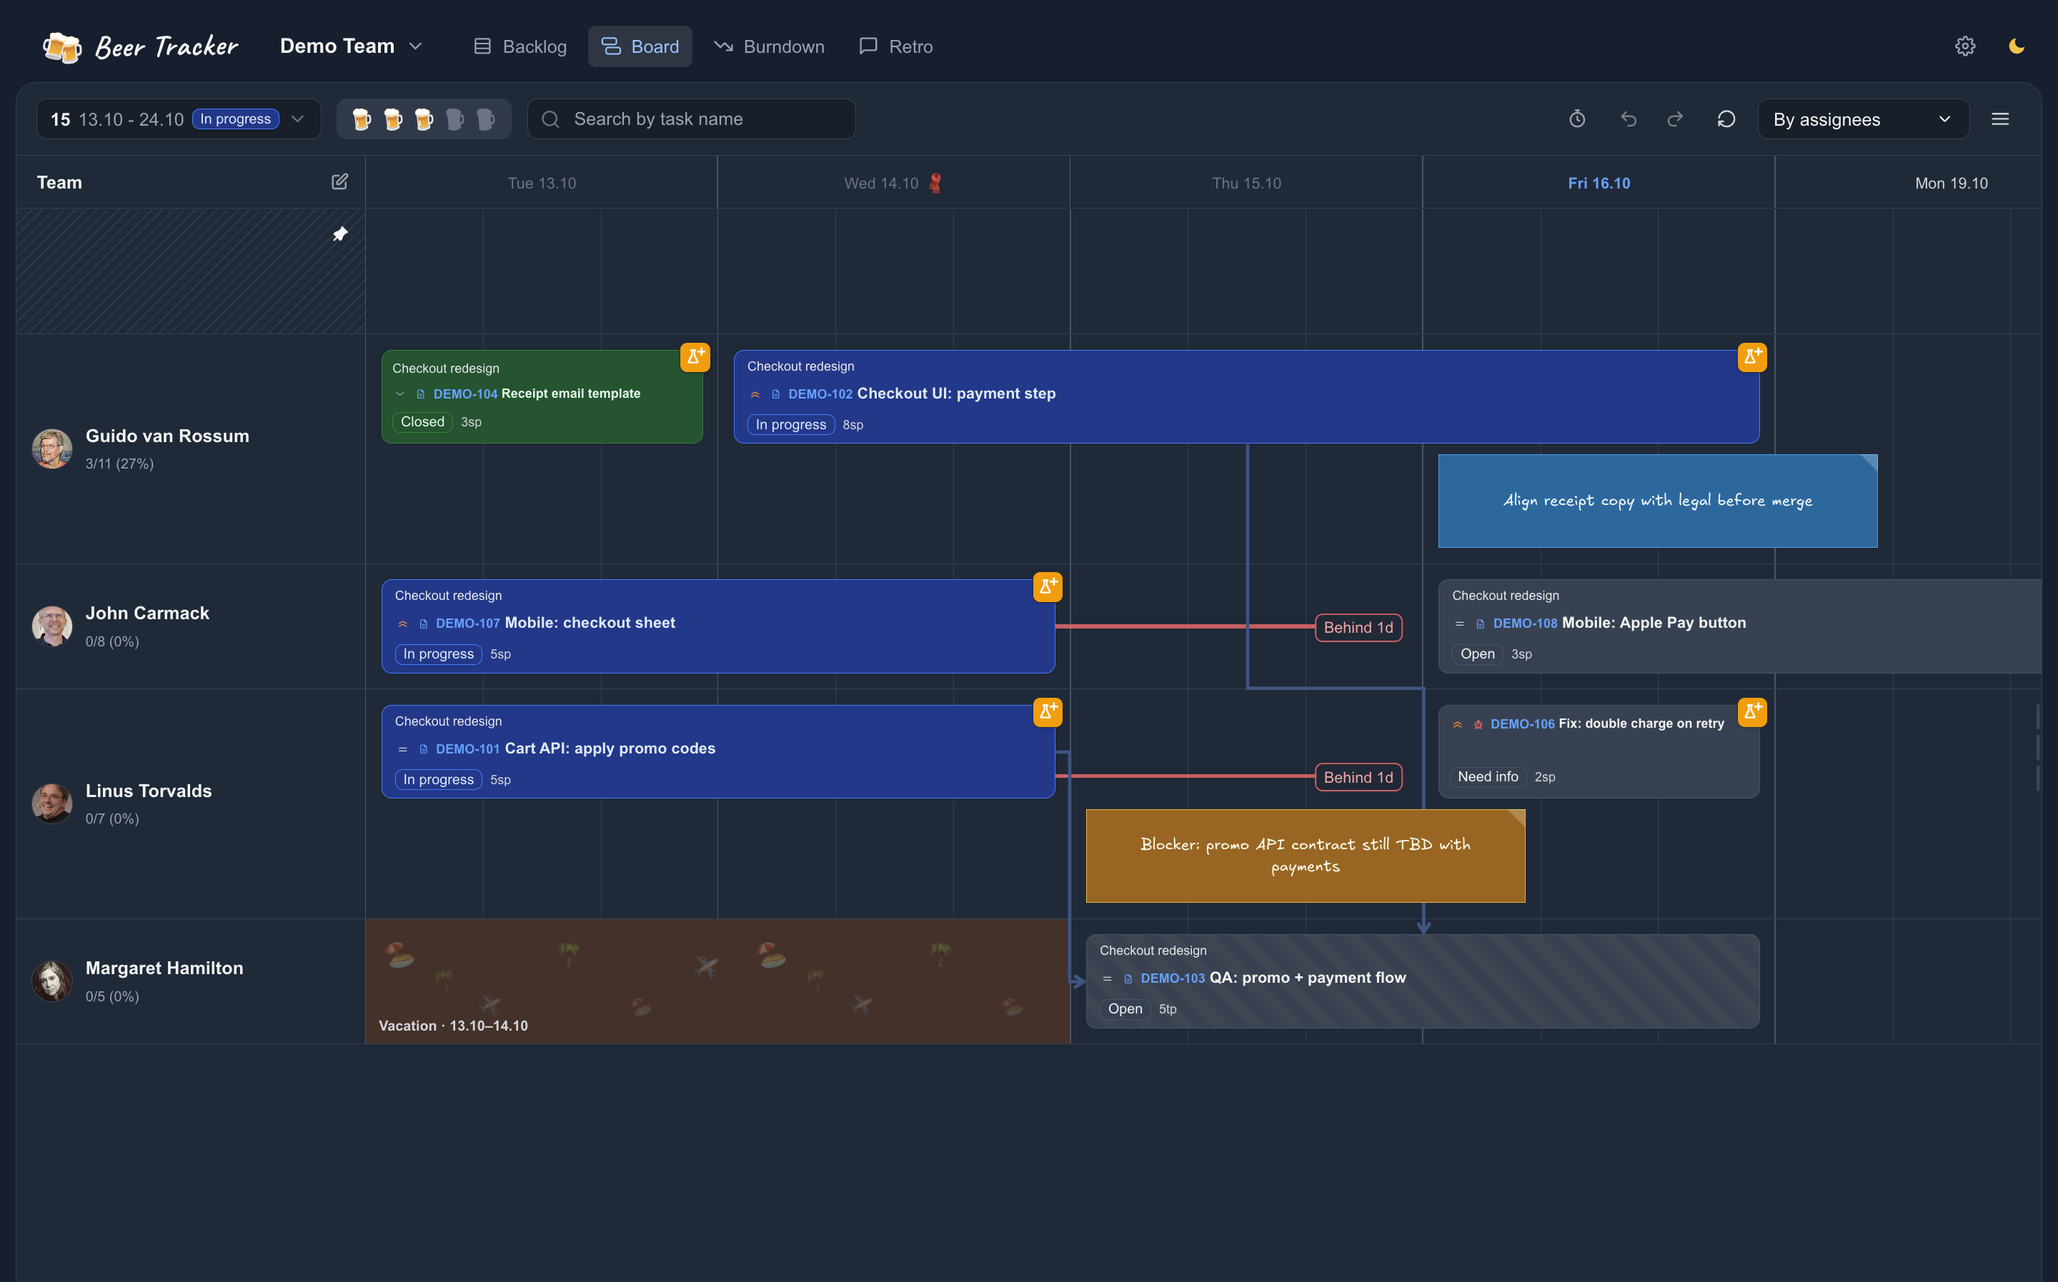
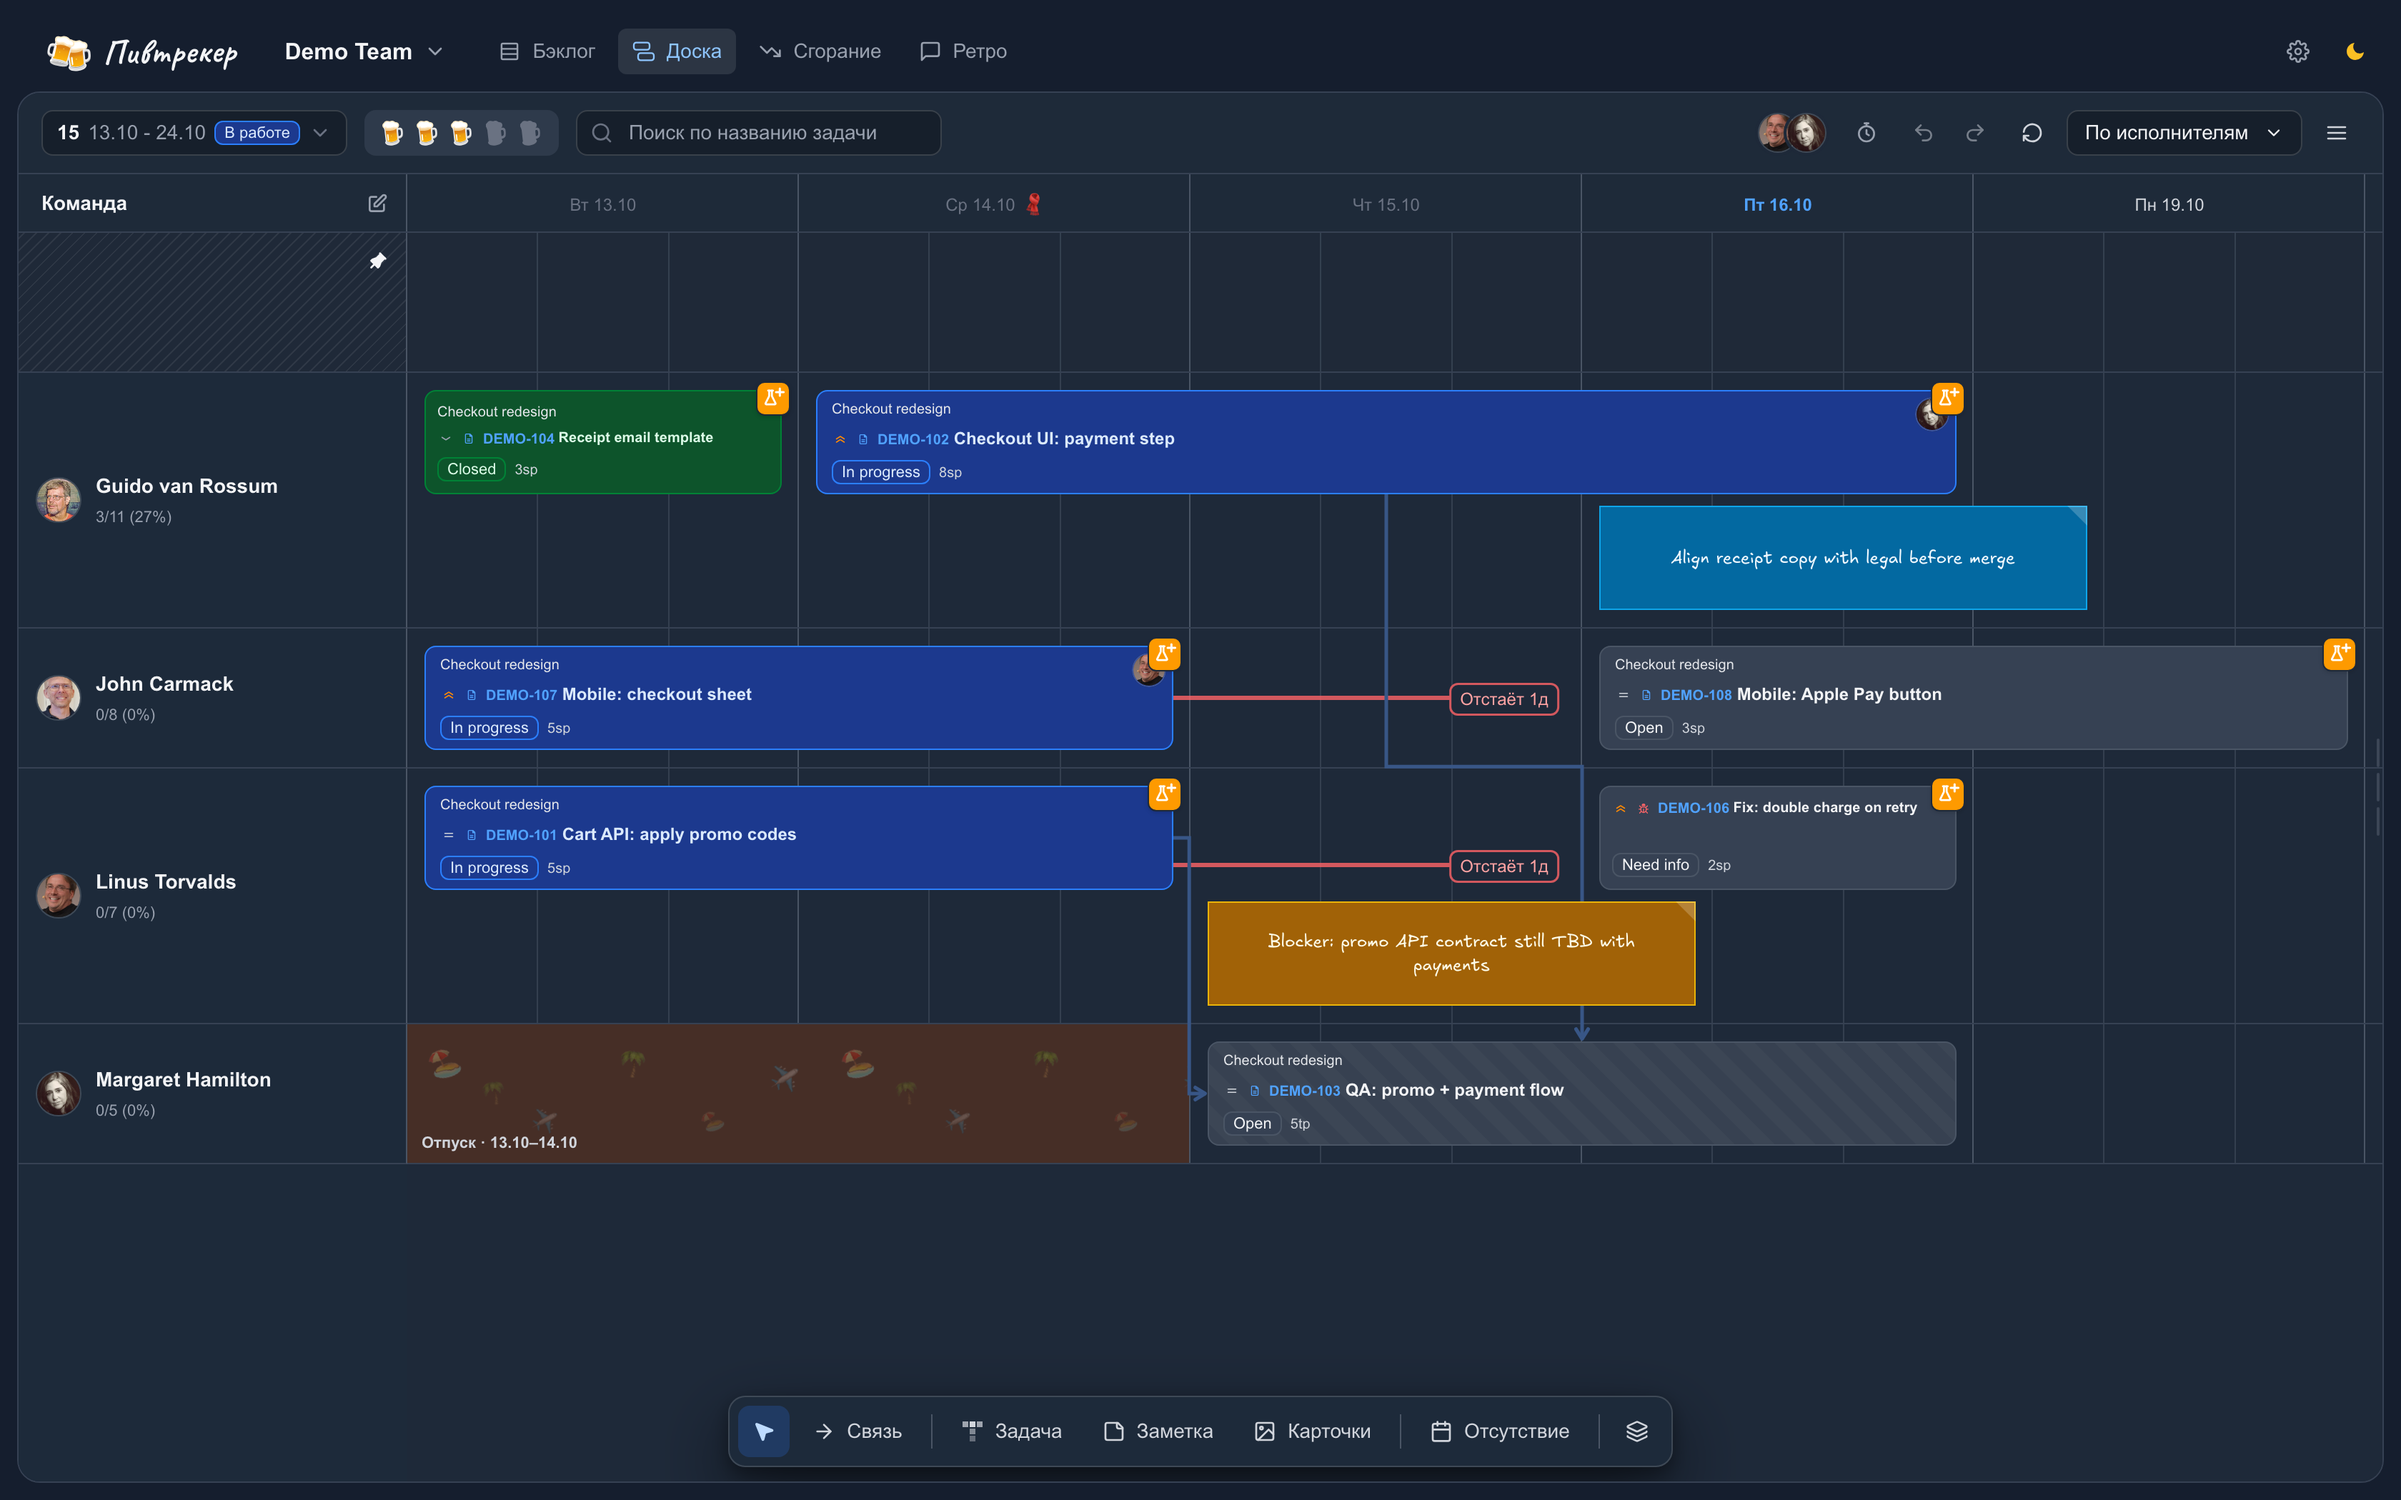
fix: Обновляет скрины README и показывает факт с presence в демо

diff --git a/lib/demo/demoFixtureChangelog.ts b/lib/demo/demoFixtureChangelog.ts
@@ -1,0 +1,70 @@
+import type { ChangelogEntry, IssueChangelogWithComments } from '@/types/tracker';
+
+interface StatusRef {
+  display: string;
+  key: string;
+}
+
+function statusChange(
+  id: string,
+  updatedAt: string,
+  from: StatusRef | null,
+  to: StatusRef
+): ChangelogEntry {
+  return {
+    createdBy: { display: 'Demo User', id: 'demo-user' },
+    fields: [
+      {
+        field: { display: 'Status', id: 'status' },
+        from: from ? { display: from.display, id: from.key, key: from.key } : null,
+        to: { display: to.display, id: to.key, key: to.key },
+      },
+    ],
+    id,
+    type: 'IssueWorkflow',
+    updatedAt,
+  };
+}
+
+const OPEN: StatusRef = { display: 'Open', key: 'open' };
+const IN_PROGRESS: StatusRef = { display: 'In progress', key: 'inProgress' };
+const IN_REVIEW: StatusRef = { display: 'In review', key: 'inReview' };
+const CLOSED: StatusRef = { display: 'Closed', key: 'closed' };
+const BLOCKED: StatusRef = { display: 'Blocked', key: 'blocked' };
+const READY_FOR_TEST: StatusRef = { display: 'Ready for test', key: 'readyForTest' };
+const IN_TESTING: StatusRef = { display: 'In testing', key: 'inTesting' };
+
+function pack(changelog: ChangelogEntry[]): IssueChangelogWithComments {
+  return { changelog, comments: [] };
+}
+
+/** Status history so `/demo/planner` can draw the swimlane fact timeline. */
+export function buildDemoIssueChangelogs(): Record<string, IssueChangelogWithComments> {
+  return {
+    'DEMO-101': pack([
+      statusChange('demo-101-1', '2026-10-14T06:00:00.000Z', OPEN, IN_PROGRESS),
+    ]),
+    'DEMO-102': pack([
+      statusChange('demo-102-1', '2026-10-13T06:00:00.000Z', OPEN, IN_PROGRESS),
+      statusChange('demo-102-2', '2026-10-14T09:00:00.000Z', IN_PROGRESS, IN_REVIEW),
+      statusChange('demo-102-3', '2026-10-15T06:00:00.000Z', IN_REVIEW, IN_PROGRESS),
+    ]),
+    'DEMO-103': pack([
+      statusChange('demo-103-1', '2026-10-15T06:00:00.000Z', OPEN, READY_FOR_TEST),
+      statusChange('demo-103-2', '2026-10-16T06:00:00.000Z', READY_FOR_TEST, IN_TESTING),
+    ]),
+    'DEMO-104': pack([
+      statusChange('demo-104-1', '2026-10-13T06:00:00.000Z', OPEN, IN_PROGRESS),
+      statusChange('demo-104-2', '2026-10-14T08:00:00.000Z', IN_PROGRESS, IN_REVIEW),
+      statusChange('demo-104-3', '2026-10-15T11:00:00.000Z', IN_REVIEW, CLOSED),
+    ]),
+    'DEMO-106': pack([
+      statusChange('demo-106-1', '2026-10-15T07:00:00.000Z', OPEN, IN_PROGRESS),
+      statusChange('demo-106-2', '2026-10-16T05:00:00.000Z', IN_PROGRESS, BLOCKED),
+    ]),
+    'DEMO-107': pack([
+      statusChange('demo-107-1', '2026-10-13T07:00:00.000Z', OPEN, IN_PROGRESS),
+      statusChange('demo-107-2', '2026-10-15T10:00:00.000Z', IN_PROGRESS, IN_REVIEW),
+    ]),
+  };
+}

diff --git a/hooks/useSprintRealtimeSync.ts b/hooks/useSprintRealtimeSync.ts
@@ -11,6 +11,7 @@ import { useEffect, useRef, useSyncExternalStore } from 'react';
 
 import { useDemoPlannerShell } from '@/contexts/DemoPlannerShellContext';
 import { DEMO_ORG_ID } from '@/lib/demo/demoIds';
+import { buildDemoPresenceViewers } from '@/lib/demo/demoPresenceViewers';
 import { buildSprintRealtimeSseUrl } from '@/lib/realtime/buildSprintRealtimeSseUrl';
 import { getBrowserRealtimeClientId } from '@/lib/realtime/sprintRealtimeClientId';
 import { parseSprintRealtimeMessage, shouldApplySprintRealtimeEvent } from '@/lib/realtime/sprintRealtimeProtocol';
@@ -131,6 +132,11 @@ export function useSprintRealtimeSync(
   useEffect(() => {
     handlersRef.current = handlers;
   }, [handlers]);
+
+  useEffect(() => {
+    if (!isDemoPlanner || !sprintId || sprintId <= 0) return;
+    handlersRef.current.onPresence?.(buildDemoPresenceViewers());
+  }, [isDemoPlanner, sprintId]);
 
   useEffect(() => {
     // Fixture demo has no real SSE tenant — EventSource 403 would reconnect forever.

diff --git a/lib/demo/demoPresenceViewers.ts b/lib/demo/demoPresenceViewers.ts
@@ -1,0 +1,27 @@
+import type { SprintPresenceViewer } from '@/lib/realtime/sprintRealtimeTypes';
+
+import { DEMO_DEV_DISPLAY } from './demoFixtureSeedTasks';
+
+/** Two colleagues already on the demo board (header stack + card avatars). */
+export function buildDemoPresenceViewers(): SprintPresenceViewer[] {
+  return [
+    {
+      attention: 'active',
+      avatarUrl: DEMO_DEV_DISPLAY.carol.avatarUrl,
+      boardView: 'swimlanes',
+      clientId: 'demo-presence-carol',
+      displayName: DEMO_DEV_DISPLAY.carol.name,
+      focus: { state: 'viewing', targetId: 'DEMO-102' },
+      userId: 'demo-presence-carol',
+    },
+    {
+      attention: 'active',
+      avatarUrl: DEMO_DEV_DISPLAY.alice.avatarUrl,
+      boardView: 'swimlanes',
+      clientId: 'demo-presence-alice',
+      displayName: DEMO_DEV_DISPLAY.alice.name,
+      focus: { state: 'viewing', targetId: 'DEMO-107' },
+      userId: 'demo-presence-alice',
+    },
+  ];
+}

diff --git a/lib/demo/demoFixtureRouterMisc.ts b/lib/demo/demoFixtureRouterMisc.ts
@@ -1,6 +1,7 @@
 import type { DemoFixtureResult } from './demoFixtureRouterTypes';
 
 import { buildHolidayZeroString } from './demoFixtureBurndown';
+import { buildDemoIssueChangelogs } from './demoFixtureChangelog';
 import { getDemoFixtureStore } from './demoFixtureStore';
 
 function ok(data: unknown, status = 200): DemoFixtureResult {
@@ -22,7 +23,7 @@ function handleIssueByKey(path: string): DemoFixtureResult {
 function handleIssues(path: string, method: string): DemoFixtureResult | null {
   if (!path.startsWith('/issues/')) return null;
   if (path === '/issues/changelog' && method === 'post') {
-    return ok({ changelogs: {} });
+    return ok(buildDemoIssueChangelogs());
   }
   if (path === '/issues/parent-statuses' && method === 'get') {
     return ok({ statuses: {} });

diff --git a/lib/demo/demoFixtureRouter.test.ts b/lib/demo/demoFixtureRouter.test.ts
@@ -116,6 +116,14 @@ describe('handleDemoFixtureRequest', () => {
     });
   });
 
+  it('returns swimlane fact changelogs keyed by issue', () => {
+    const result = handleDemoFixtureRequest(cfg('post', '/issues/changelog'));
+    expect(result.status).toBe(200);
+    const data = result.data as Record<string, { changelog: unknown[] }>;
+    expect(data['DEMO-102']?.changelog.length).toBeGreaterThan(1);
+    expect(data['DEMO-104']?.changelog.length).toBeGreaterThan(1);
+  });
+
   it('returns assignee velocity averages for demo developers', () => {
     const result = handleDemoFixtureRequest(
       cfg('get', `/sprints/assignee-velocity?sprintIds=${DEMO_SPRINT_ID}`)

diff --git a/features/task/components/TaskTimeline/utils/processChangelog.ts b/features/task/components/TaskTimeline/utils/processChangelog.ts
@@ -12,6 +12,7 @@ import {
   isFullyOnWeekend,
   isWeekend,
 } from '@/utils/dateUtils';
+import { getPlannerNowMs } from '@/utils/plannerClock';
 
 interface StatusHistoryItem {
   createdBy?: {
@@ -130,7 +131,7 @@ function mapHistoryItemToDuration(status: StatusHistoryItem, nowMs: number): Sta
 }
 
 function durationsFromStatusHistory(statusHistory: StatusHistoryItem[]): StatusDuration[] {
-  const nowMs = new Date().getTime();
+  const nowMs = getPlannerNowMs();
   return statusHistory
     .map((status) => mapHistoryItemToDuration(status, nowMs))
     .filter((d): d is StatusDuration => d !== null);

diff --git a/docs/media/README.md b/docs/media/README.md
@@ -5,12 +5,12 @@
 | Файл | Что | Источник |
 |------|-----|----------|
 | `logo-button-light.svg` / `logo-button-dark.svg` | Бренд без фона (кружка + Caveat), цвет текста под тему | сгенерировано из `beer-mug.svg` + Caveat Bold |
-| `swimlane-light.png` / `swimlane-dark.png` | Свимлейны | Board |
+| `swimlane-light.png` / `swimlane-dark.png` | Свимлейны | Board, сайдбар закрыт |
 | `backlog-light.png` / `backlog-dark.png` | Бэклог | Backlog |
 | `burndown-light.png` / `burndown-dark.png` | Burndown SP/TP | Burndown |
 | `retro-light.png` / `retro-dark.png` | Ретро + «Факты» | Retro |
-| `fact-timeline.svg` → `.png` | Таймлайн факта | Живой планер после sync |
-| `collaboration.svg` → `.png` | Presence | Живой планер (2+ вкладки) |
+| `fact-timeline-light.png` / `fact-timeline-dark.png` | Таймлайн факта под дорожками | Board, настройка «Таймлайн факта» |
+| `collaboration-light.png` / `collaboration-dark.png` | Presence: стек в шапке и аватары на карточках | Board |
 
 Демо-участники (имена + портреты Wikimedia в [`public/demo/avatars/`](../../public/demo/avatars/)): Linus Torvalds, Guido van Rossum, Margaret Hamilton, John Carmack.
 
@@ -18,7 +18,7 @@
 
 1. `pnpm docker:dev` → [http://localhost:3000/demo/planner](http://localhost:3000/demo/planner)
 2. Светлая / тёмная тема в шапке; вкладки Board / Backlog / Burndown / Retro
-3. Кадр ~1440×900 → соответствующие `*-light.png` / `*-dark.png` в этой папке
+3. Закройте сайдбар и онбординг, кадр ~1680×1050 → соответствующие `*-light.png` / `*-dark.png` в этой папке. Факт — с включённым «Таймлайн факта под свимлейном».
 
 ## Светлая / тёмная в README
 

diff --git a/README.md b/README.md
@@ -105,9 +105,12 @@ Self-hosted, [Apache License 2.0](./LICENSE). Историческое имя UI
 
 Настраивают и запускают выгрузку админы в `/admin/sync` (очереди команд + доп. параметры). Для планового incremental sync нужны Redis и `pnpm sync-worker`; полный rescan можно гонять inline — см. [INSTALL.md](./docs/INSTALL.md).
 
-<!-- media-slot: docs/media/fact-timeline.png -->
 <p align="center">
-  <img src="./docs/media/fact-timeline.svg" alt="Таймлайн факта на свимлейне" width="900" />
+  <picture>
+    <source media="(prefers-color-scheme: dark)" srcset="./docs/media/fact-timeline-dark.png" />
+    <source media="(prefers-color-scheme: light)" srcset="./docs/media/fact-timeline-light.png" />
+    <img src="./docs/media/fact-timeline-light.png" alt="Таймлайн факта на свимлейне" width="900" />
+  </picture>
 </p>
 
 ## Ретро
@@ -128,9 +131,12 @@ Self-hosted, [Apache License 2.0](./LICENSE). Историческое имя UI
 
 Для нескольких инстансов приложения нужен Redis (pub/sub + presence); без него realtime живёт в памяти одного процесса.
 
-<!-- media-slot: docs/media/collaboration.png -->
 <p align="center">
-  <img src="./docs/media/collaboration.svg" alt="Совместная работа: presence на доске" width="900" />
+  <picture>
+    <source media="(prefers-color-scheme: dark)" srcset="./docs/media/collaboration-dark.png" />
+    <source media="(prefers-color-scheme: light)" srcset="./docs/media/collaboration-light.png" />
+    <img src="./docs/media/collaboration-light.png" alt="Совместная работа: presence на доске" width="900" />
+  </picture>
 </p>
 
 ## Как это работает
